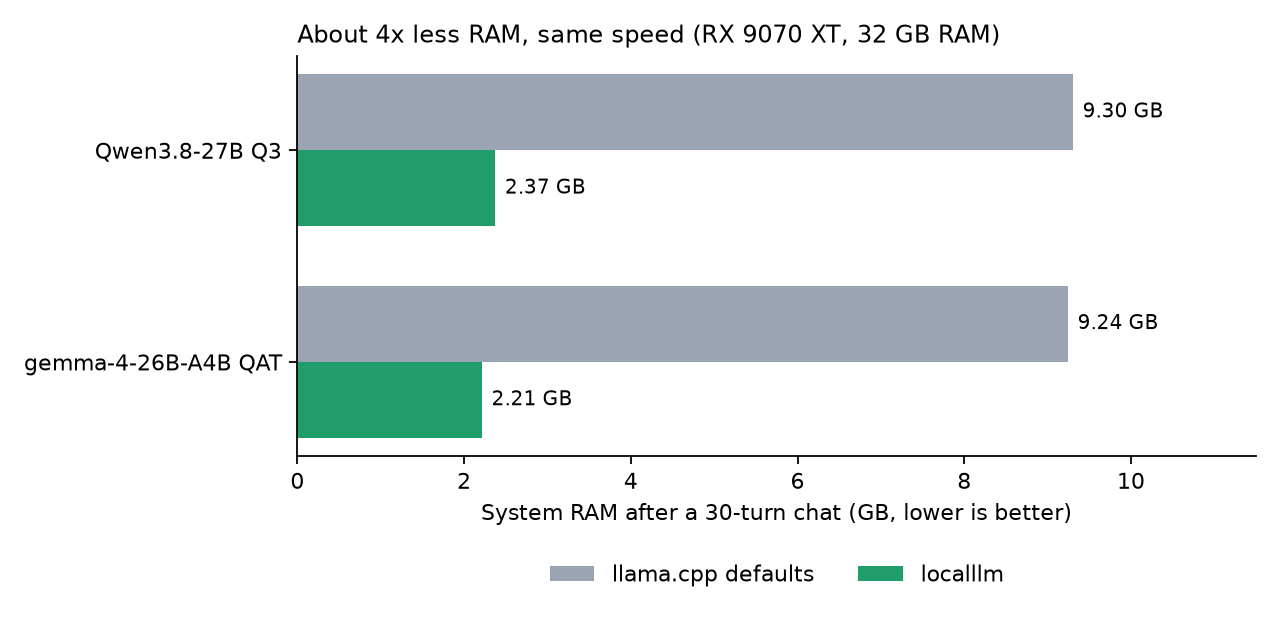
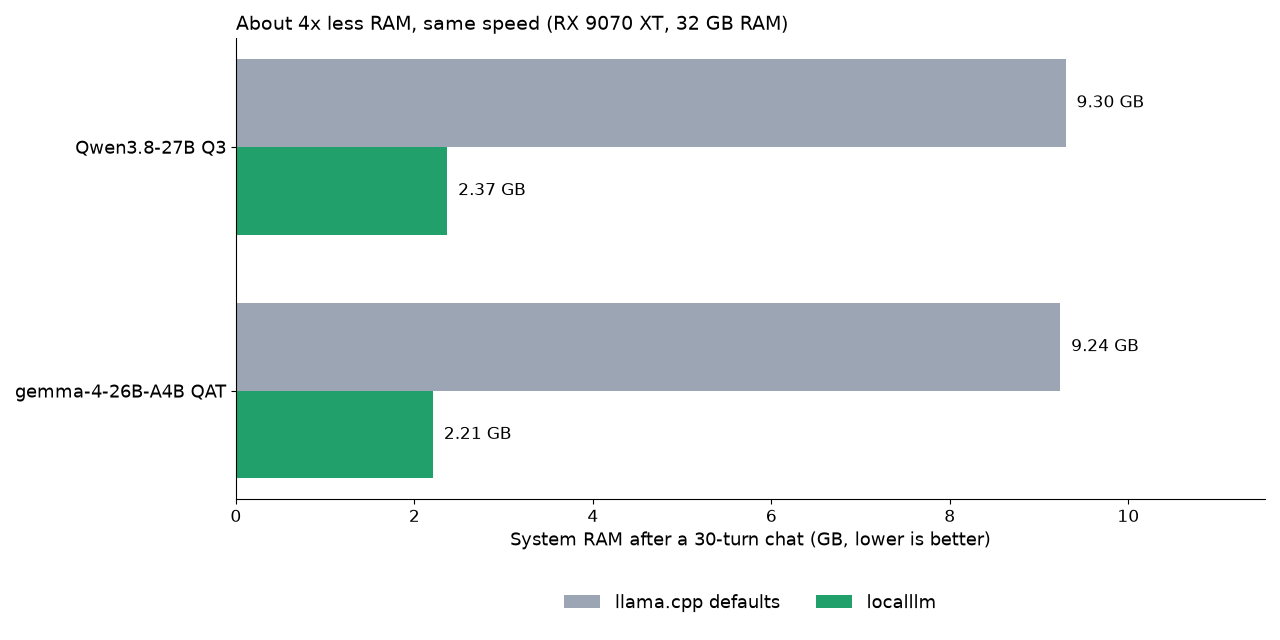
README drift checks: doctor sample and headline RAM numbers (#80)
- tests/test_readme.py runs `doctor` on a fixture RX 9070 XT (16304 MiB,
  32 GB RAM, Thai Windows) and requires the README block to match it line by
  line; it also checks the RAM table against tools/footprint_results.jsonl.
- tools/headline.py is the single source for those numbers and redraws
  docs/img/ram-30-turns.png from them (same picture as before).

Closes #80

Claude-Session: https://claude.ai/code/session_01Xk222Vdfn4atFrE7Q7qHe4

diff --git a/tools/headline.py b/tools/headline.py
@@ -1,0 +1,70 @@
+"""The README's headline RAM numbers, from one place: tools/footprint_results.jsonl (#80).
+
+  python tools/headline.py          print the numbers the README table must show
+  python tools/headline.py chart    redraw docs/img/ram-30-turns.png from them (needs matplotlib)
+
+tests/test_readme.py fails when the README table and these numbers disagree.
+"""
+from __future__ import annotations
+
+import json
+import sys
+from pathlib import Path
+
+ROOT = Path(__file__).resolve().parents[1]
+RESULTS = ROOT / "tools" / "footprint_results.jsonl"
+CHART = ROOT / "docs" / "img" / "ram-30-turns.png"
+# README name -> (llama.cpp defaults run, localllm run) in footprint_results.jsonl, both 30 turns on the RX 9070 XT
+RUNS = {"Qwen3.8-27B Q3": ("qwen-default", "qwen-tuned"),
+        "gemma-4-26B-A4B QAT": ("gemma-default", "gemma-tuned")}
+
+
+def numbers() -> dict[str, dict]:
+    """{name: {default_gb, localllm_gb, default_tok_s, localllm_tok_s}} after the 30th turn."""
+    runs = {}
+    for line in RESULTS.read_text(encoding="utf-8").splitlines():
+        if line.strip():
+            r = json.loads(line)
+            runs[r["label"]] = r["final"]
+    out = {}
+    for name, (base, ours) in RUNS.items():
+        b, o = runs[base], runs[ours]
+        assert b["turn"] == o["turn"] == 30, name
+        out[name] = {"default_gb": round(b["working_set_gb"], 2), "localllm_gb": round(o["working_set_gb"], 2),
+                     "default_tok_s": b["tok_s"], "localllm_tok_s": o["tok_s"]}
+    return out
+
+
+def chart(out: Path = CHART) -> None:
+    import matplotlib
+    matplotlib.use("Agg")
+    import matplotlib.pyplot as plt
+    n = numbers()
+    names = list(n)[::-1]
+    fig, ax = plt.subplots(figsize=(12.8, 6.4), dpi=100)
+    y = range(len(names))
+    h = 0.36
+    for off, key, color, label in ((h / 2, "default_gb", "#9ca5b3", "llama.cpp defaults"),
+                                   (-h / 2, "localllm_gb", "#21a06b", "localllm")):
+        vals = [n[k][key] for k in names]
+        bars = ax.barh([i + off for i in y], vals, height=h, color=color, label=label)
+        for b, v in zip(bars, vals):
+            ax.text(v + 0.12, b.get_y() + h / 2, f"{v:.2f} GB", va="center", fontsize=12)
+    ax.set_yticks(list(y), names, fontsize=13)
+    ax.set_xlim(0, max(v["default_gb"] for v in n.values()) * 1.24)
+    ax.set_xlabel("System RAM after a 30-turn chat (GB, lower is better)", fontsize=13)
+    ax.set_title("About 4x less RAM, same speed (RX 9070 XT, 32 GB RAM)", fontsize=14, loc="left")
+    ax.tick_params(axis="x", labelsize=12)
+    for s in ("top", "right"):
+        ax.spines[s].set_visible(False)
+    ax.legend(loc="upper center", bbox_to_anchor=(0.5, -0.17), ncol=2, frameon=False, fontsize=13)
+    fig.tight_layout()
+    fig.savefig(out)
+    print(f"wrote {out}")
+
+
+if __name__ == "__main__":
+    if sys.argv[1:] == ["chart"]:
+        chart()
+    else:
+        print(json.dumps(numbers(), indent=1))

diff --git a/tests/test_readme.py b/tests/test_readme.py
@@ -1,0 +1,43 @@
+"""The README must show what the code prints and what we measured (#80)."""
+import contextlib
+import io
+import re
+import sys
+from pathlib import Path
+
+from localllm import bench, cli, runtime, tune
+
+ROOT = Path(__file__).resolve().parents[1]
+sys.path.insert(0, str(ROOT / "tools"))
+import headline  # noqa: E402
+
+README = (ROOT / "README.md").read_text(encoding="utf-8")
+# the PC the README sample comes from: RX 9070 XT (16304 MiB as llama.cpp lists it), 32 GB RAM, Thai Windows
+DEV = {"id": "Vulkan0", "name": "AMD Radeon RX 9070 XT", "total_gb": 16304 / 1024, "free_gb": 15.0}
+
+
+def _doctor(monkeypatch) -> str:
+    monkeypatch.setattr(cli, "_machine", lambda: (Path("llama-server"), [DEV], DEV, 32.0))
+    monkeypatch.setattr(runtime, "ram_available_gb", lambda: 17.5)
+    monkeypatch.setattr(tune, "load", lambda: {})
+    monkeypatch.setattr(bench, "system_language", lambda: "th")
+    monkeypatch.setattr("platform.system", lambda: "Windows")
+    out = io.StringIO()
+    with contextlib.redirect_stdout(out):
+        cli.cmd_doctor(None)
+    return out.getvalue()
+
+
+def test_readme_doctor_sample_matches_real_output(monkeypatch):
+    sample = README.split("## What `localllm doctor` tells you", 1)[1].split("```", 2)[1].strip("\n")
+    real = _doctor(monkeypatch).split("\nRun it:", 1)[0].rstrip("\n")
+    assert sample == real, "README doctor sample is stale: paste the output of this test's _doctor() into README.md"
+
+
+def test_readme_ram_table_matches_measurements():
+    for name, n in headline.numbers().items():
+        row = next(line for line in README.splitlines() if line.startswith(f"| {name} |"))
+        cells = [c.strip(" *") for c in row.strip("|").split("|")]
+        assert cells[1] == f"{n['default_gb']:.2f} GB RAM" and cells[2] == f"{n['localllm_gb']:.2f} GB", row
+        speeds = [float(s) for s in re.findall(r"[\d.]+", cells[3])]
+        assert all(abs(s - n["localllm_tok_s"]) <= 1 and abs(s - n["default_tok_s"]) <= 1 for s in speeds), row
